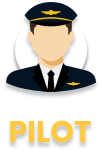
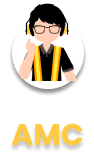
oke

diff --git a/src/pages/Menu/Game.js b/src/pages/Menu/Game.js
@@ -84,6 +84,8 @@ export default function Game({ navigation, route }) {
 
     const [next, setnext] = useState(0);
 
+    const [chat, setChat] = useState([])
+
     const readText = async (text, tipe) => {
 
         Tts.setDefaultRate(0.5);
@@ -103,7 +105,7 @@ export default function Game({ navigation, route }) {
 
     const sendData = () => {
         if (kirim.tipe.length == 0) {
-            Alert.alert(MYAPP, 'Silahkan pilih PILOT atau ATC')
+            Alert.alert(MYAPP, 'Silahkan pilih AMC atau ATC')
         } else if (kirim.pesan.length == 0) {
             Alert.alert(MYAPP, 'Pesan tidak boleh kosong')
         } else {
@@ -119,21 +121,44 @@ export default function Game({ navigation, route }) {
                     setPilot(kirim.pesan);
                     readText(kirim.pesan, 'PILOT');
 
+
+
                     Tts.addEventListener('tts-finish', (event) => {
 
                         axios.post(apiURL + 'pesan', kirim).then(res => {
 
-                            SoundPlayer.playSoundFile('tung', 'mp3')
+
+
+
+                            SoundPlayer.playSoundFile('tung', 'mp3');
+                            let cth = [...chat];
+                            cth.push({
+                                posisi: res.data.posisi,
+                                pilot: kirim.pesan,
+                                atc: res.data.message,
+                            });
+                            setChat(cth);
 
                             setTimeout(() => {
-                                SoundPlayer.playSoundFile('noise', 'mp3')
-                                SoundPlayer.setVolume(0.5);
+
+
                                 setAtc(res.data.message);
                                 setPosisi(res.data.posisi);
                                 readText(res.data.message, 'ATC');
-                                Tts.removeAllListeners('tts-finish');
-                                Tts.addEventListener('tts-finish', (event) => {
-                                    SoundPlayer.stop();
+
+                                if (res.data.message.length > 0) {
+                                    SoundPlayer.playSoundFile('noise', 'mp3')
+                                    SoundPlayer.setVolume(0.5);
+
+                                    Tts.removeAllListeners('tts-finish');
+                                    Tts.addEventListener('tts-finish', (event) => {
+                                        SoundPlayer.stop();
+                                    })
+
+                                }
+                                setKirim({
+                                    ...kirim,
+                                    pesan: ''
                                 })
 
                             }, 1000)
@@ -172,16 +197,36 @@ export default function Game({ navigation, route }) {
 
                             SoundPlayer.playSoundFile('tung', 'mp3')
 
+                            let cth = [...chat];
+                            cth.push({
+                                posisi: res.data.posisi,
+                                atc: kirim.pesan,
+                                pilot: res.data.message,
+                            });
+                            setChat(cth);
+
                             setTimeout(() => {
-                                SoundPlayer.playSoundFile('noise', 'mp3')
-                                SoundPlayer.setVolume(0.5);
+
+
+
                                 setPilot(res.data.message);
                                 setPosisi(res.data.posisi);
                                 readText(res.data.message, 'PILOT');
-                                Tts.removeAllListeners('tts-finish');
-                                Tts.addEventListener('tts-finish', (event) => {
-                                    SoundPlayer.stop();
-                                })
+
+
+                                if (res.data.message.length > 0) {
+                                    SoundPlayer.playSoundFile('noise', 'mp3')
+                                    SoundPlayer.setVolume(0.5);
+
+                                    Tts.removeAllListeners('tts-finish');
+                                    Tts.addEventListener('tts-finish', (event) => {
+                                        SoundPlayer.stop();
+                                    })
+                                    setKirim({
+                                        ...kirim,
+                                        pesan: ''
+                                    })
+                                }
 
                             }, 1000)
 
@@ -215,44 +260,53 @@ export default function Game({ navigation, route }) {
                 padding: 16,
             }}>
 
-                {pilot.length > 0 &&
-                    <View style={{
-                        width: '80%',
-                        padding: 10,
-                        borderRadius: 10,
-                        backgroundColor: colors.primary,
-                    }}>
-                        <Text style={{
-                            color: colors.white,
-                            ...fonts.headline2
-                        }}>PILOT</Text>
-                        <Text style={{
-                            color: colors.white,
-                            ...fonts.body3
-                        }}>{pilot}</Text>
-                    </View>
-                }
+
+                <FlatList data={chat} renderItem={({ item, index }) => {
+                    return (
+                        <View style={{
+                            marginBottom: 10,
+                        }}>
+                            <View style={{
+                                width: '80%',
+                                padding: 10,
+                                borderRadius: 10,
+                                backgroundColor: colors.primary,
+                            }}>
+                                <Text style={{
+                                    color: colors.white,
+                                    ...fonts.headline2
+                                }}>AMC</Text>
+                                <Text style={{
+                                    color: colors.white,
+                                    ...fonts.body3
+                                }}>{item.pilot}</Text>
+                            </View>
 
 
-                {atc.length > 0 &&
-                    <View style={{
-                        marginTop: '10%',
-                        alignSelf: 'flex-end',
-                        width: '80%',
-                        padding: 10,
-                        borderRadius: 10,
-                        backgroundColor: colors.secondary,
-                    }}>
-                        <Text style={{
-                            color: colors.black,
-                            ...fonts.headline2
-                        }}>ATC</Text>
-                        <Text style={{
-                            color: colors.black,
-                            ...fonts.body3
-                        }}>{atc}</Text>
-                    </View>
-                }
+
+
+                            <View style={{
+                                marginTop: '10%',
+                                alignSelf: 'flex-end',
+                                width: '80%',
+                                padding: 10,
+                                borderRadius: 10,
+                                backgroundColor: colors.secondary,
+                            }}>
+                                <Text style={{
+                                    color: colors.black,
+                                    ...fonts.headline2
+                                }}>ATC</Text>
+                                <Text style={{
+                                    color: colors.black,
+                                    ...fonts.body3
+                                }}>{item.atc}</Text>
+                            </View>
+                        </View>
+                    )
+
+                }} />
+
             </View>
 
             {posisi.length > 0 &&
@@ -317,7 +371,37 @@ export default function Game({ navigation, route }) {
                             resizeMode: 'contain'
                         }} />
                     </TouchableOpacity>
-                    <Text>{next}</Text>
+
+                    <TouchableOpacity onPress={() => {
+                        Alert.alert(MYAPP, 'Apakah kamu yakin akan hapus semua percakapan ?', [
+                            { text: 'tidak' }, {
+                                text: 'YA',
+                                onPress: () => {
+                                    console.log(chat)
+                                    setChat([]);
+                                    setKirim({
+                                        ...kirim,
+                                        posisi: ''
+                                    });
+                                    setPosisi('')
+                                }
+                            }
+                        ])
+                    }} style={{
+                        borderWidth: 1,
+                        borderRadius: 10,
+                        // marginHorizontal: 10,
+                        borderColor: colors.secondary,
+                        backgroundColor: colors.primary,
+                    }}>
+                        <Image source={require('../../assets/clear.png')} style={{
+                            width: 80,
+                            height: 80,
+                            resizeMode: 'contain'
+                        }} />
+                    </TouchableOpacity>
+
+
 
                 </View>
                 <View style={{
